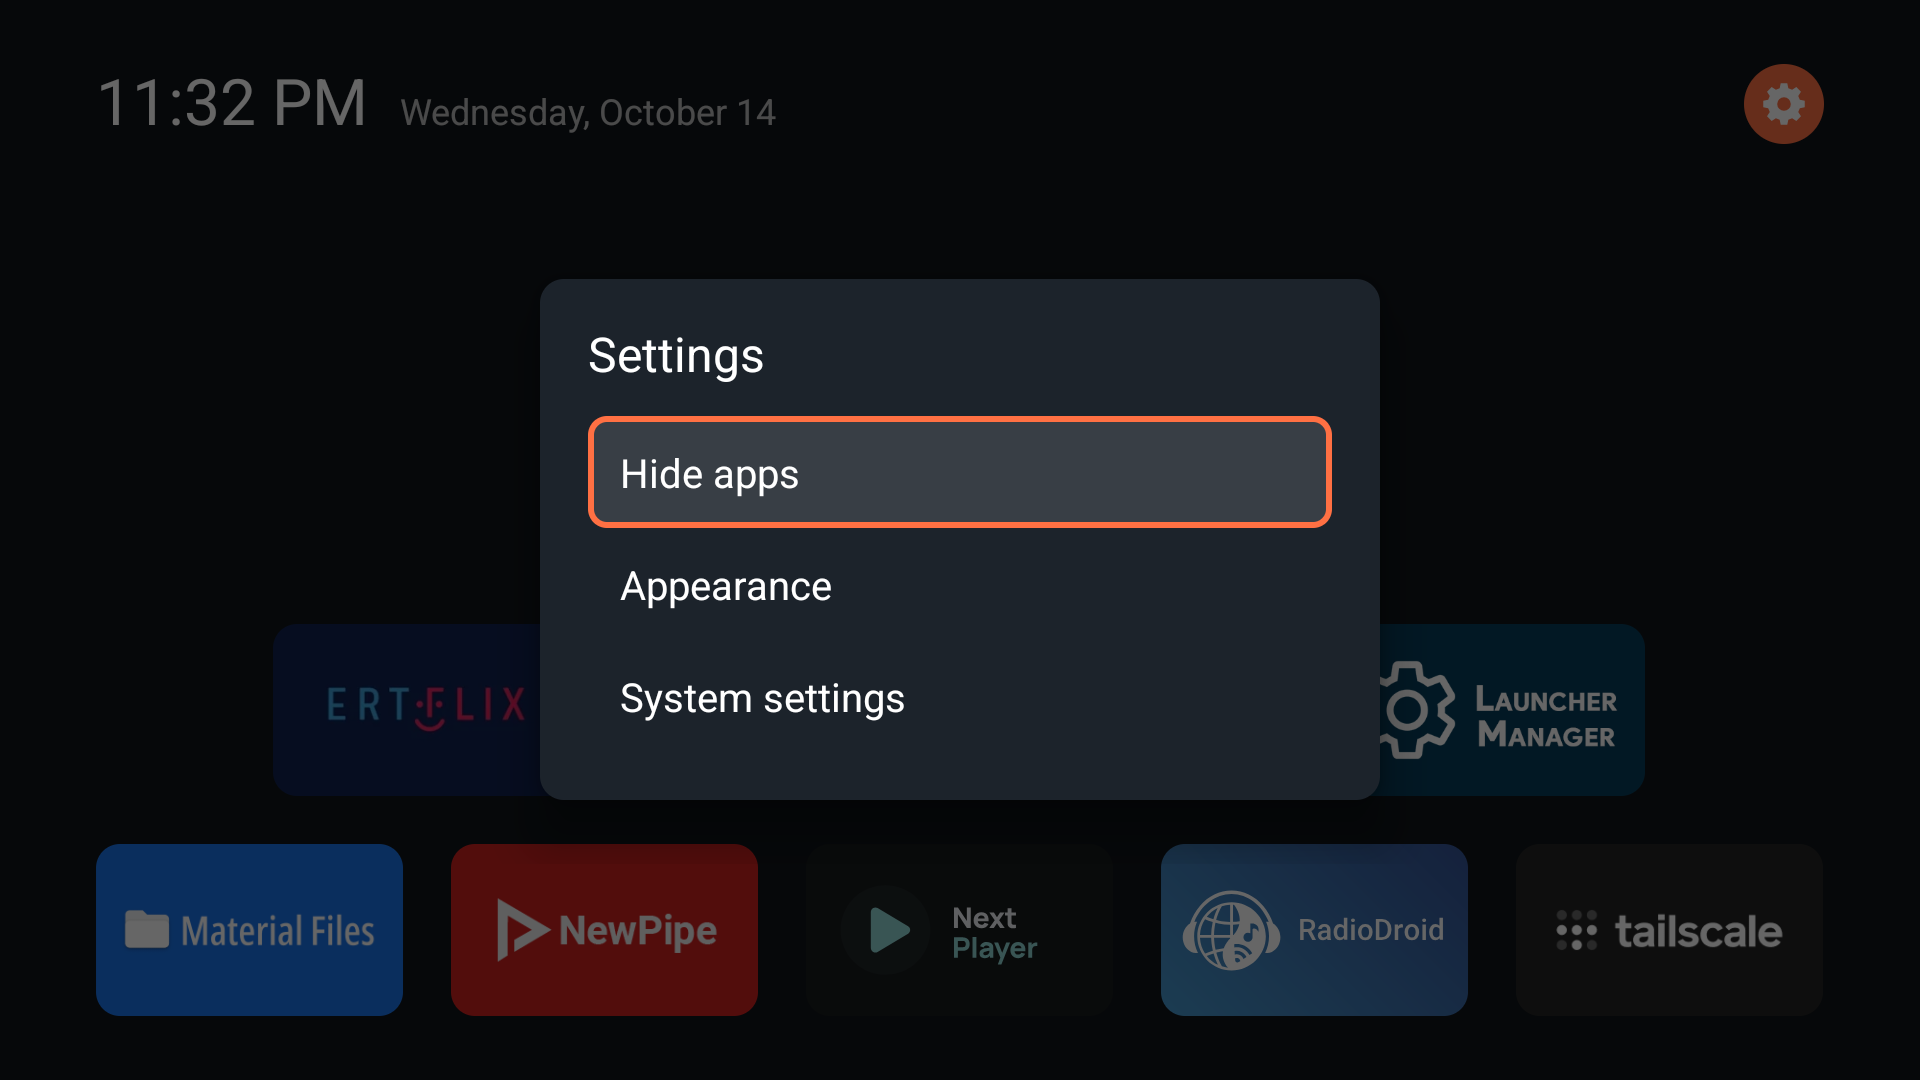
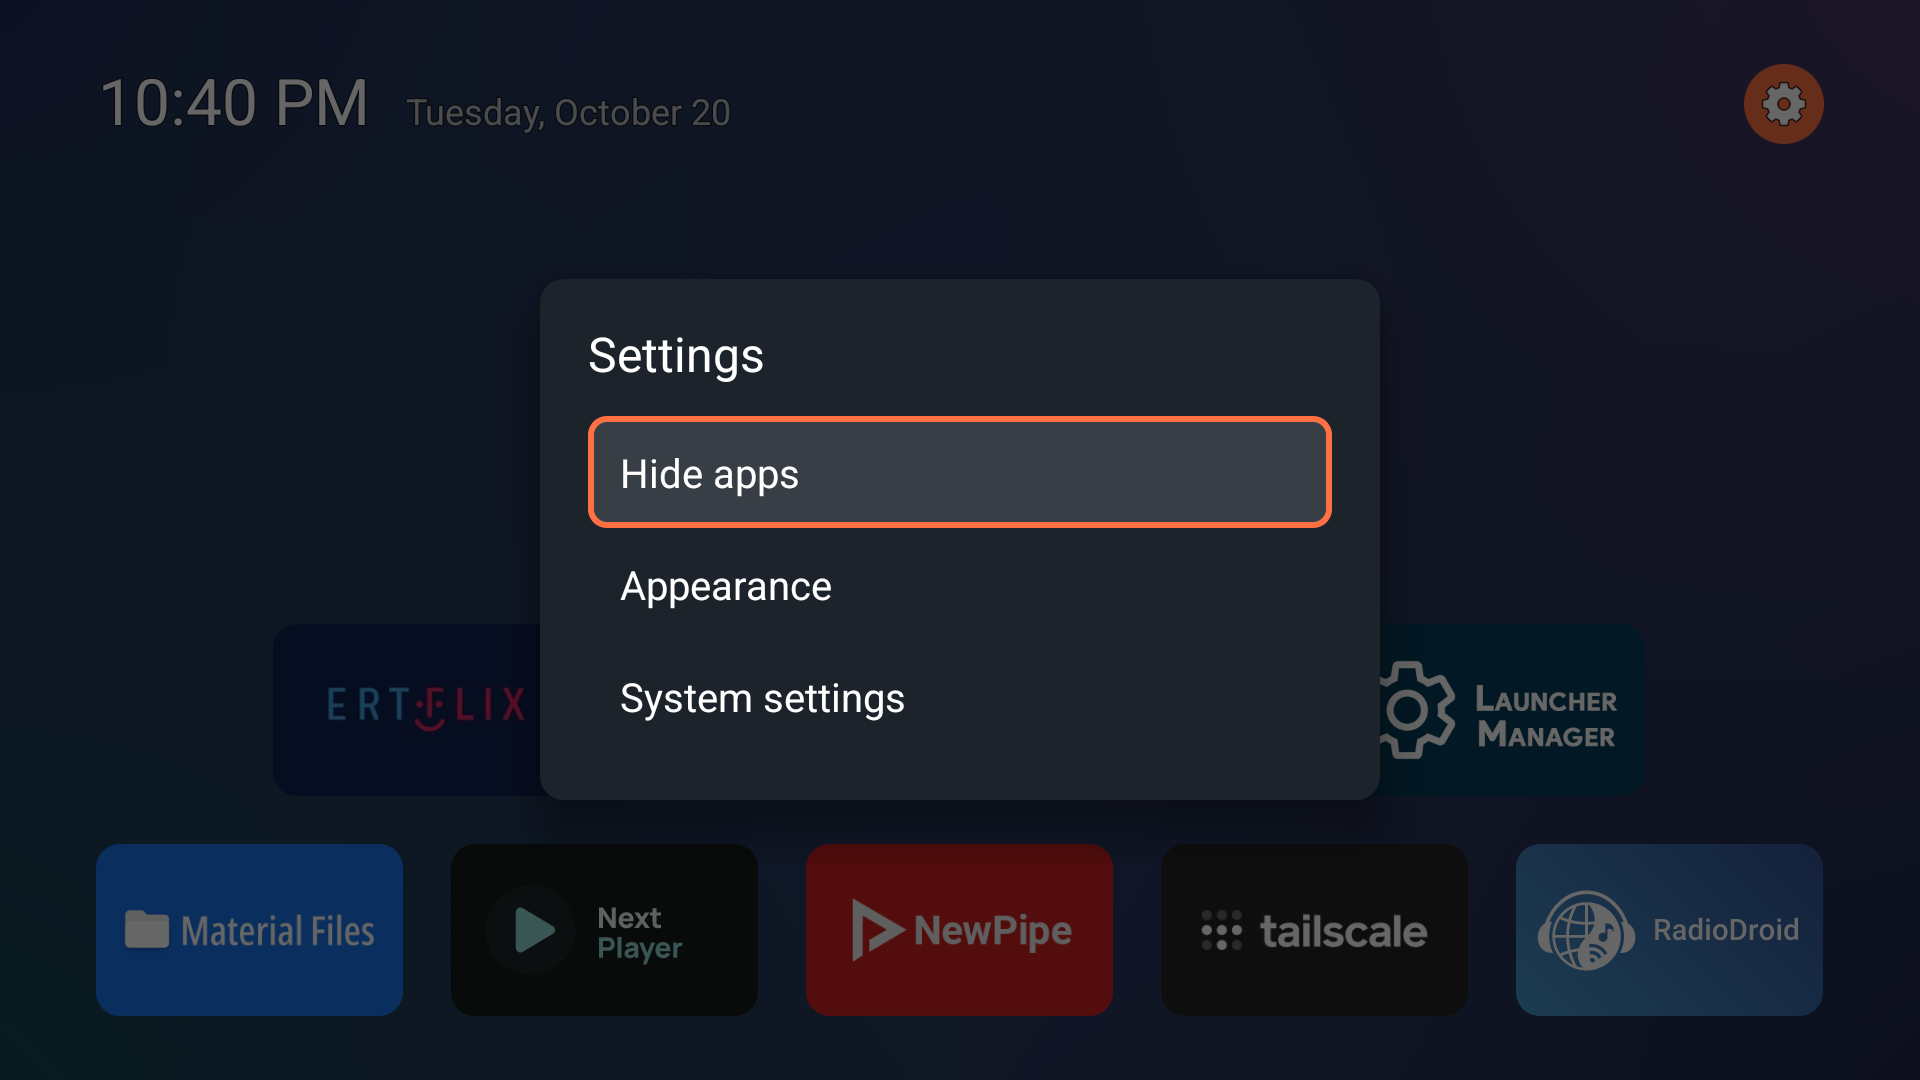
Prepare the 0.3.0 release: version, notes, store listing and new screenshots
Version 0.3.0 (versionCode 3000) ships wallpapers: a picture of Luncher's own library behind
the home screen, filled or stretched, dimmed and blurred, with pictures shared from other apps
or added from a folder on the TV or a USB drive.

diff --git a/README.md b/README.md
@@ -2,13 +2,13 @@
   <img src="docs/images/readme-banner.png" alt="Luncher" width="100%">
 </p>
 
-<p align="center"><b>A lightweight and customizable home screen (launcher) for Android TV.</b></p>
+<p align="center"><b>An offline, lightweight and customizable Android TV launcher that starts instantly.</b></p>
 
 <p align="center">
+  <img src="https://img.shields.io/badge/APK-~194_KB-blue" alt="APK ~194 KB">
   <a href="https://f-droid.org/packages/com.luncher.launcher/"><img src="https://img.shields.io/f-droid/v/com.luncher.launcher?logo=fdroid" alt="F-Droid version"></a>
   <a href="https://github.com/CVasilakis/luncher/releases/latest"><img src="https://img.shields.io/github/v/release/CVasilakis/luncher?logo=github" alt="GitHub release"></a>
   <img src="https://img.shields.io/badge/Android_TV-5.1%2B-3DDC84?logo=android&logoColor=white" alt="Android TV 5.1+">
-  <img src="https://img.shields.io/badge/APK-~98_KB-blue" alt="APK ~98 KB">
 </p>
 
 It's made with performance in mind, to run smoothly even on old and weak Android TV devices, and still gives you plenty of customization options to shape it to your taste.
@@ -20,32 +20,35 @@ It's made with performance in mind, to run smoothly even on old and weak Android
 | ![The home screen](fastlane/metadata/android/en-US/images/tvScreenshots/1.png) | ![Moving an app](fastlane/metadata/android/en-US/images/tvScreenshots/2.png) |
 | Your apps, the time and the date | Hold OK on an app to move it |
 | ![The settings](fastlane/metadata/android/en-US/images/tvScreenshots/3.png) | ![The appearance settings](fastlane/metadata/android/en-US/images/tvScreenshots/4.png) |
-| Settings | Choose where your apps sit and how round their corners are |
+| Settings | Customize your home screen layout and tile shape |
+| ![The background settings](fastlane/metadata/android/en-US/images/tvScreenshots/5.png) | ![Adding a picture from a folder](fastlane/metadata/android/en-US/images/tvScreenshots/6.png) |
+| Pick a wallpaper, and dim or blur it | Add pictures to Luncher |
 
 ## Features
 
 - [x] A status bar with the time, the date and the settings, which you can arrange to your liking
 - [x] Your TV apps as a grid of banners, placed where you want on the screen
 - [x] Reorder your apps
-- [x] Hide the apps you don't use, and still reach them quickly from the hidden shelf
-- [x] Rounded tile corners, from square to pill-shaped
+- [x] Hide the apps you don't use (quickly accessible from the hidden shelf)
+- [x] Customize the tile shape, from square to pill-shaped
+- [x] Set your own pictures as wallpaper, with dim and blur options
 
 **On the way**
 
-- [ ] Your own wallpapers (and maybe a lightweight animated background option)
-- [ ] Your own banners for apps
-- [ ] More appearance settings: tile size and spacing, colors and much more
-- [ ] Folders to group your apps
+- [ ] Your own custom banners for app tiles
+- [ ] More appearance settings: tile size and spacing, accent colors and much more
 - [ ] Wi-Fi, VPN and notifications in the status bar, without ever asking for internet access
-- [ ] More exotic features (if possible), such as the CPU temperature
+- [ ] Folders to group your apps
+- [ ] A lightweight animated background option (if possible)
+- [ ] More exotic features, such as the CPU temperature (if possible)
 
 Have an idea? Suggest it in the [issues](https://github.com/CVasilakis/luncher/issues). If it fits Luncher's [design principles](#design-principles), it has a good chance of joining the list above.
 
 ## Design principles
 
-- **Instant startup** and minimal memory usage.
-- **No frameworks or dependencies**, just plain Kotlin.
-- **No permissions and no internet:** no ads, no tracking, no accounts.
+- **Instant startup** and **minimal memory usage**, with no background services.
+- **Offline by design:** no internet, no ads, no tracking, no accounts.
+- **No frameworks or dependencies:** just plain Kotlin.
 
 ## Install
 
@@ -65,8 +68,14 @@ Once installed, Luncher shows up in your TV's list of apps. You can open it from
 <details>
 <summary><b>Google TV</b></summary>
 
-Install Luncher first, then connect to the TV with adb: turn on USB or network debugging in its
-developer options. With the TV's own home screen in front, see which app it is:
+Connect to the TV with adb: turn on USB or network debugging in its developer options (over the
+network, connect with `adb connect <TV's IP address>`). Then install the APK you downloaded:
+
+```bash
+adb install luncher-vX.Y.Z.apk
+```
+
+With the TV's own home screen in front, see which app it is:
 
 ```bash
 adb shell dumpsys window | grep mCurrentFocus
@@ -101,7 +110,23 @@ is disabled, or Home has nowhere to go.
 <details>
 <summary><b>Fire TV (Fire OS)</b></summary>
 
+Connect to the Fire TV with adb: turn on ADB debugging in its developer options, then connect with
+`adb connect <Fire TV's IP address>`. Then install the APK you downloaded:
+
+```bash
+adb install luncher-vX.Y.Z.apk
+```
+
+On Fire OS, the simplest way to make Luncher your default home screen is Launcher Manager, an app
+made for exactly that:
+
 - [Launcher Manager (for Fire OS)](https://xdaforums.com/t/app-firetv-noroot-launcher-manager-change-launcher-without-root.4176349/) (XDA Forums)
+
+If Launcher Manager doesn't support your Fire OS version, there's currently an exploit that works on
+most Fire TV devices: it lets you unlock the bootloader, root your device and even downgrade it to
+an older Fire OS version. Look for the "UNLOCK" thread of your device in the forum below:
+
+- [Fire TV Original Android Development](https://xdaforums.com/f/fire-tv-original-android-development.3083/) (XDA Forums)
 
 </details>
 
@@ -125,12 +150,12 @@ found [here](https://gist.github.com/denilsonsa/80cbb3a14b3bf63de75e6bf81c89ee05
 At that point I had two options: fork one of the existing open source launchers and try to improve
 it, or build a new one from the ground up. Forking would have meant substantial changes, with no
 guarantee that the result would end up close to what I wanted. So I went for the second option,
-wondering how difficult it could be. With a good knowledge of software architecture principles and
-software engineering (and, of course, some help from AI agents), it turned out to be quite easy,
-and I learned a lot along the way. So here we are. Most of the development time goes into
-designing and improving the project's software architecture, to make sure each feature is
-implemented in a simple and lightweight way, and into automating the tests it needs. The project
-is currently a hobby that I plan to maintain for the long term. Enjoy!
+wondering how difficult it could be. With a good knowledge of software architecture principles, a
+background in software engineering and, of course, some help from AI agents, it turned out to be
+quite easy, and I learned a lot along the way. So here we are. Most of the development time goes
+into designing and improving the project's software architecture, to make sure each feature is
+implemented in a simple and lightweight manner, and into automating the tests it needs. The
+project is currently a hobby that I plan to maintain for the long term. Enjoy!
 
 ## For developers
 

diff --git a/.github/release-notes/v0.3.0/notes.md b/.github/release-notes/v0.3.0/notes.md
@@ -1,0 +1,40 @@
+## What's new
+
+### Wallpapers
+
+Set one of your own pictures behind the home screen. Open the **Settings**, then **Appearance**,
+then **Background**:
+
+![The background editor](https://github.com/CVasilakis/luncher/raw/v0.3.0/fastlane/metadata/android/en-US/images/tvScreenshots/5.png)
+
+- **Fit:** Fill the screen, cutting what doesn't fit, or Stretch the picture to it.
+- **Position:** which part of a filled picture shows: the Center, or a side (top, bottom, left, right).
+- **Dim:** darken the picture, so the apps and the time stand out: Off, Light, Medium or Strong.
+- **Blur:** soften the picture: Off, Light, Medium or Strong.
+
+Hold OK on a picture to rename or delete it, and **Delete all** removes every picture at once.
+
+### Adding pictures
+
+Luncher still asks for **no permissions**, so it can't browse your storage. A picture comes in one
+of two ways:
+
+- **Share it:** in a file manager or a gallery on the TV, choose **Share** on a picture (or
+  several, up to 100 at once), then select Luncher.
+- **Copy it into Luncher's folder,** `Android/media/com.luncher.launcher`, on the TV or on a USB
+  drive, then choose **Add from folder** at the end of the pictures list. Up to Android 14,
+  Luncher can read a picture copied there by another app, without any special permissions.
+
+> [!NOTE]
+> From Android 16 on (Android TV 15 was skipped entirely), Luncher can't read pictures copied into
+> the `Android/media/com.luncher.launcher` folder by another app. Share the picture instead in this
+> case.
+
+![Add from folder](https://github.com/CVasilakis/luncher/raw/v0.3.0/fastlane/metadata/android/en-US/images/tvScreenshots/6.png)
+
+Once a picture is added (either by sharing or by copying it into the folder above), it is copied
+into Luncher's own data folder, where the app has normal read/write access and no special
+permissions are required. Clearing the app's data or uninstalling Luncher will delete all pictures
+that were previously added. Since Luncher keeps its own copy of each picture, it stays after the
+original is deleted or the USB drive is removed. This also means that deleting a picture from
+Luncher will not affect the original on the TV or USB drive.

diff --git a/fastlane/README.md b/fastlane/README.md
@@ -63,18 +63,25 @@ the `NOTICE`.
 
 ## Screenshots
 
-Taken on the `gtv_api36` emulator (Google TV, the newest system) in English, of a release build
+Taken on the `gtv_api34` emulator (Google TV) in English, of a release build
 (`assembleRelease`, signed with the debug key to install it), which carries Luncher's own name (a
 debug build is labeled "Luncher (debug)"), with the debug build uninstalled so that it doesn't
-appear among the apps. Luncher's appearance settings are at their defaults. The emulator's own apps
-are turned off (`pm disable-user`), and nine others installed so that they fill the default layout
-(five in the bottom row, four above): ERTFLIX, Jellyfin, Kodi, Launcher Manager, Material Files,
-NewPipe, Next Player, RadioDroid and Tailscale. Their banners belong to their owners.
+appear among the apps. Not on `gtv_api36`: from Android 16 on, Luncher can't read a picture adb
+copied into its drop folder, so Add from folder would show none. Luncher's appearance settings are
+at their defaults, but for the background: a calm gradient made for the screenshots, a PNG with an
+ordered dither, so it shows no bands and the screenshots stay small (random grain made them 2 MB
+each). The emulator's own apps are turned off (`pm disable-user`), and nine others installed
+so that they fill the default layout (five in the bottom row, four above), ordered so that light
+and dark banners alternate: ERTFLIX, Jellyfin, Kodi, Launcher Manager, Material Files, NewPipe,
+Next Player, RadioDroid and Tailscale. Their banners belong to their owners. The library's photos
+are the author's own.
 
 1. The home screen.
 2. Arrange mode, holding an app.
 3. The settings panel.
 4. Appearance, with Tiles open.
+5. Background, the gradient chosen, the photos listed below it.
+6. Add from folder.
 
 `screencap` saves PNGs with an alpha channel, which `convert` (ImageMagick) removes:
 
